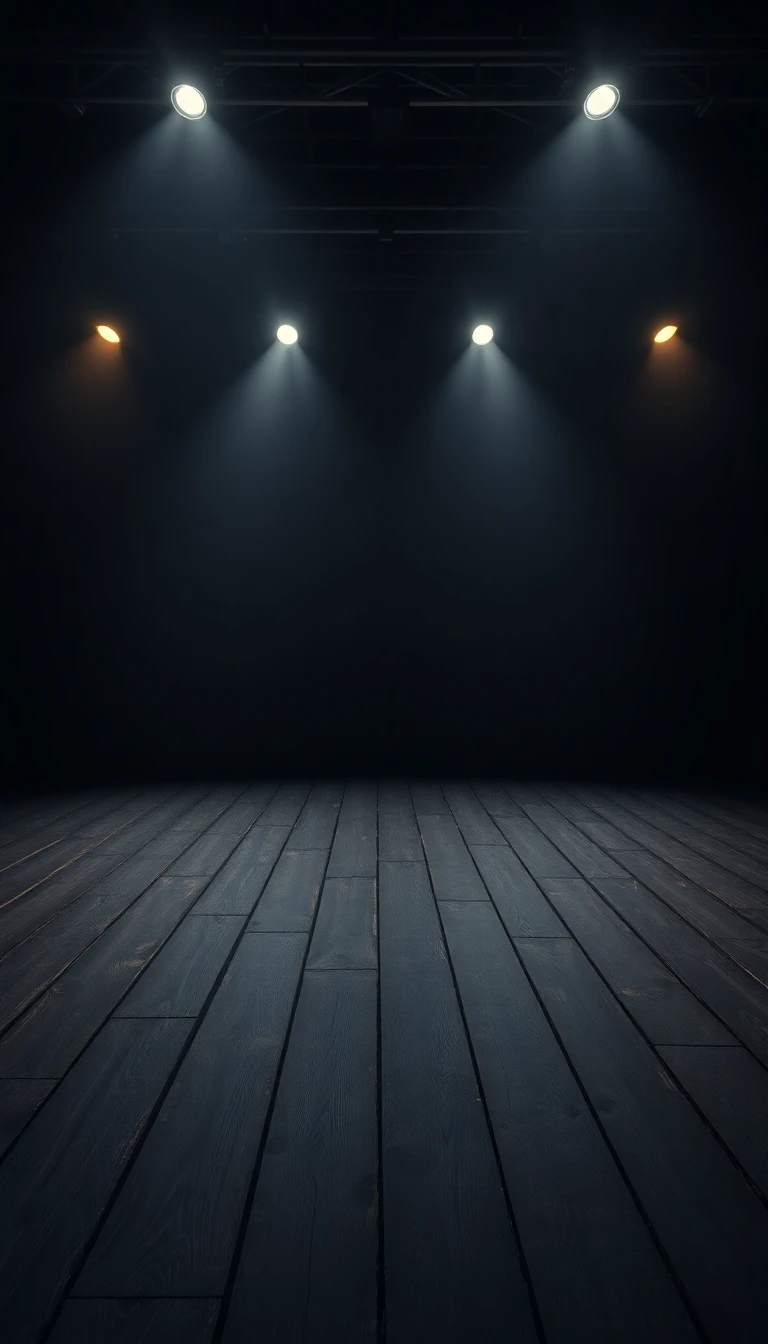
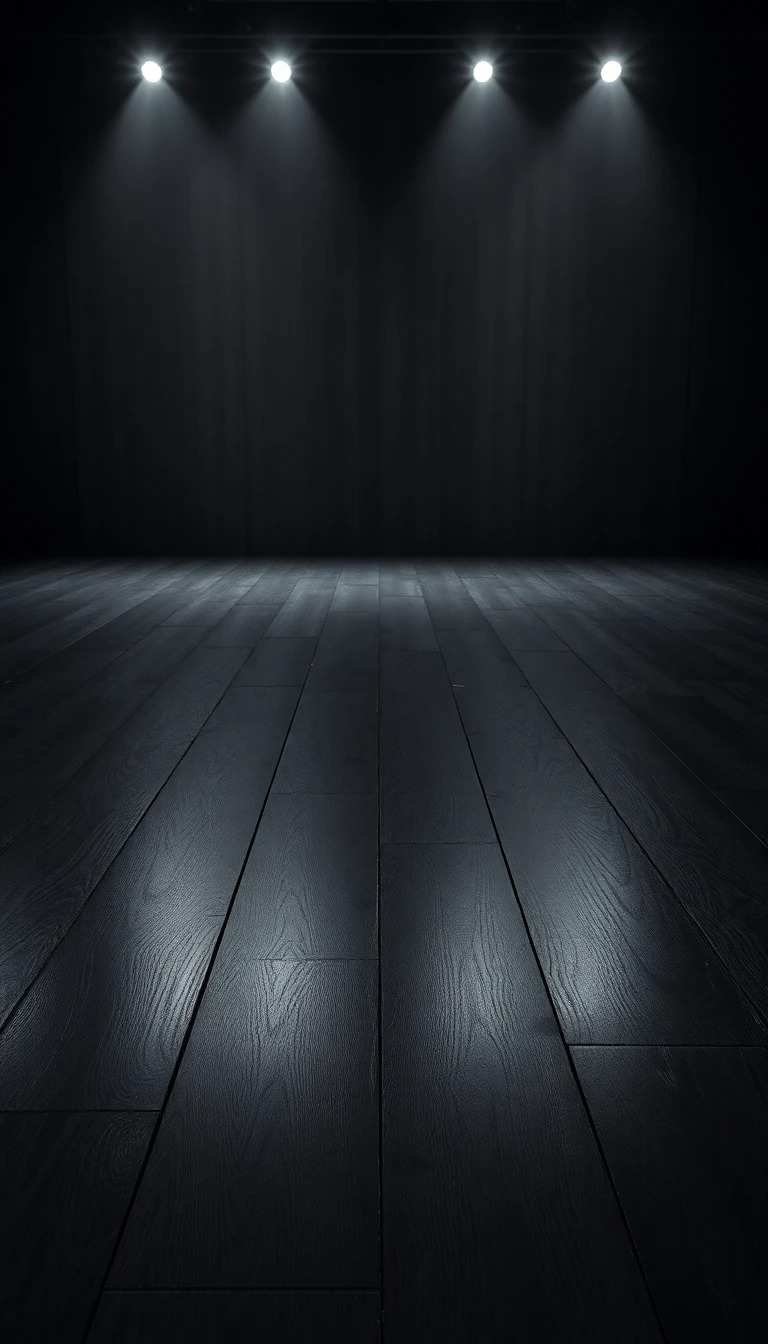
v10: The stage image on the ground is wrong; make the stage im a texture of the stage and make a sepeate backdrop image for the lights and curtains/backdrop

diff --git a/script.js b/script.js
@@ -88,14 +88,14 @@ stage.position.y = -0.25;
 // stage.receiveShadow = true; 
 scene.add(stage);
 
-// Back wall with lighting effects
+// Back wall with lighting effects and curtains
 const backWallGeometry = new THREE.BoxGeometry(14, 8, 0.5);
-const lightingTexture = textureLoader.load('/stage_lights.png');
+const backdropTexture = textureLoader.load('/stage_backdrop.png');
 const backWallMaterial = new THREE.MeshPhongMaterial({ 
-    color: 0x222222, 
-    emissive: 0x111111,
-    map: lightingTexture,
-    emissiveMap: lightingTexture
+    color: 0xffffff, 
+    map: backdropTexture,
+    emissive: 0x333333,
+    emissiveMap: backdropTexture
 });
 const backWall = new THREE.Mesh(backWallGeometry, backWallMaterial);
 backWall.position.set(0, 4, -4);
